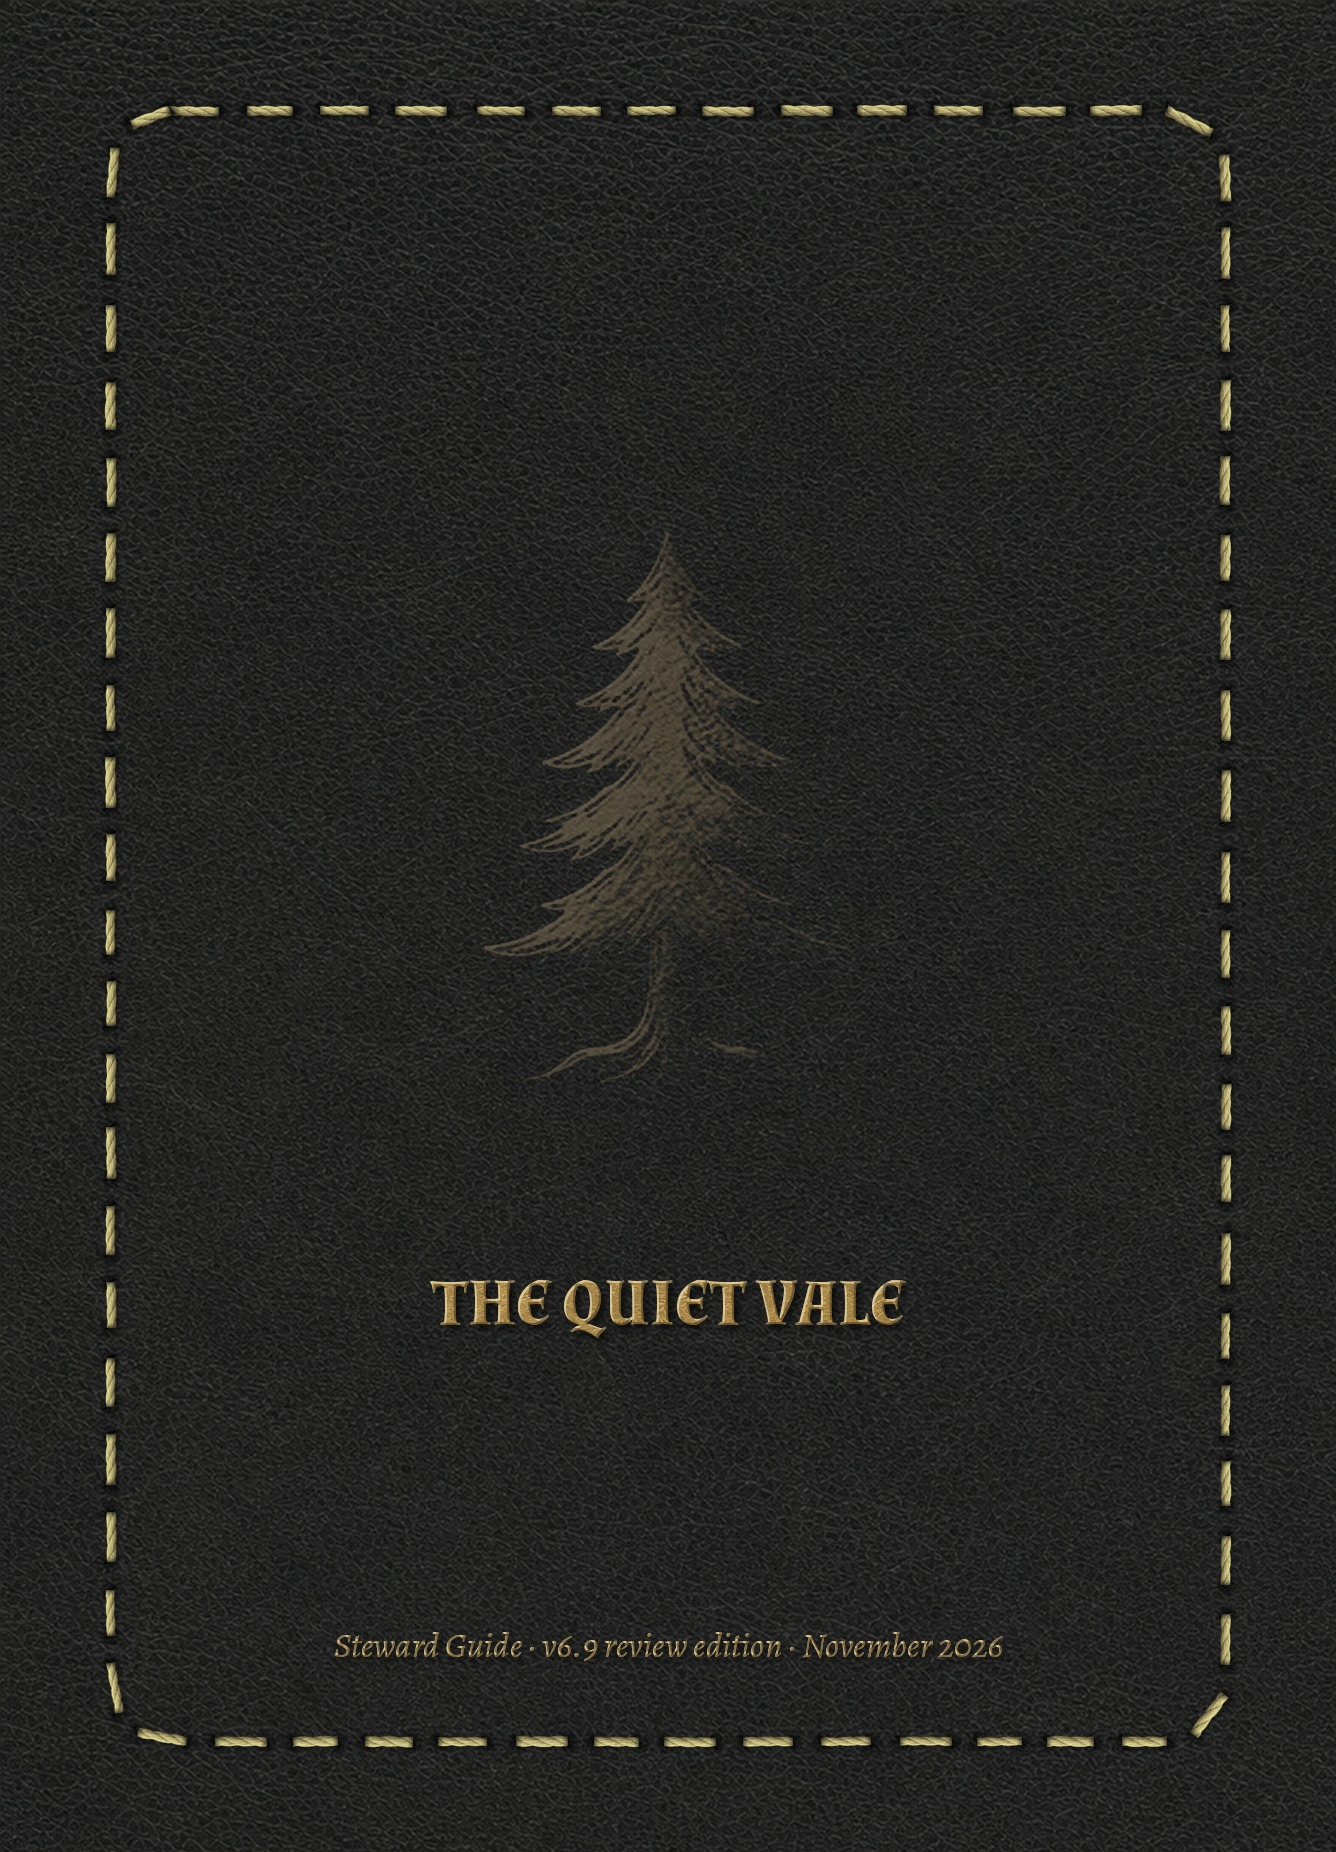
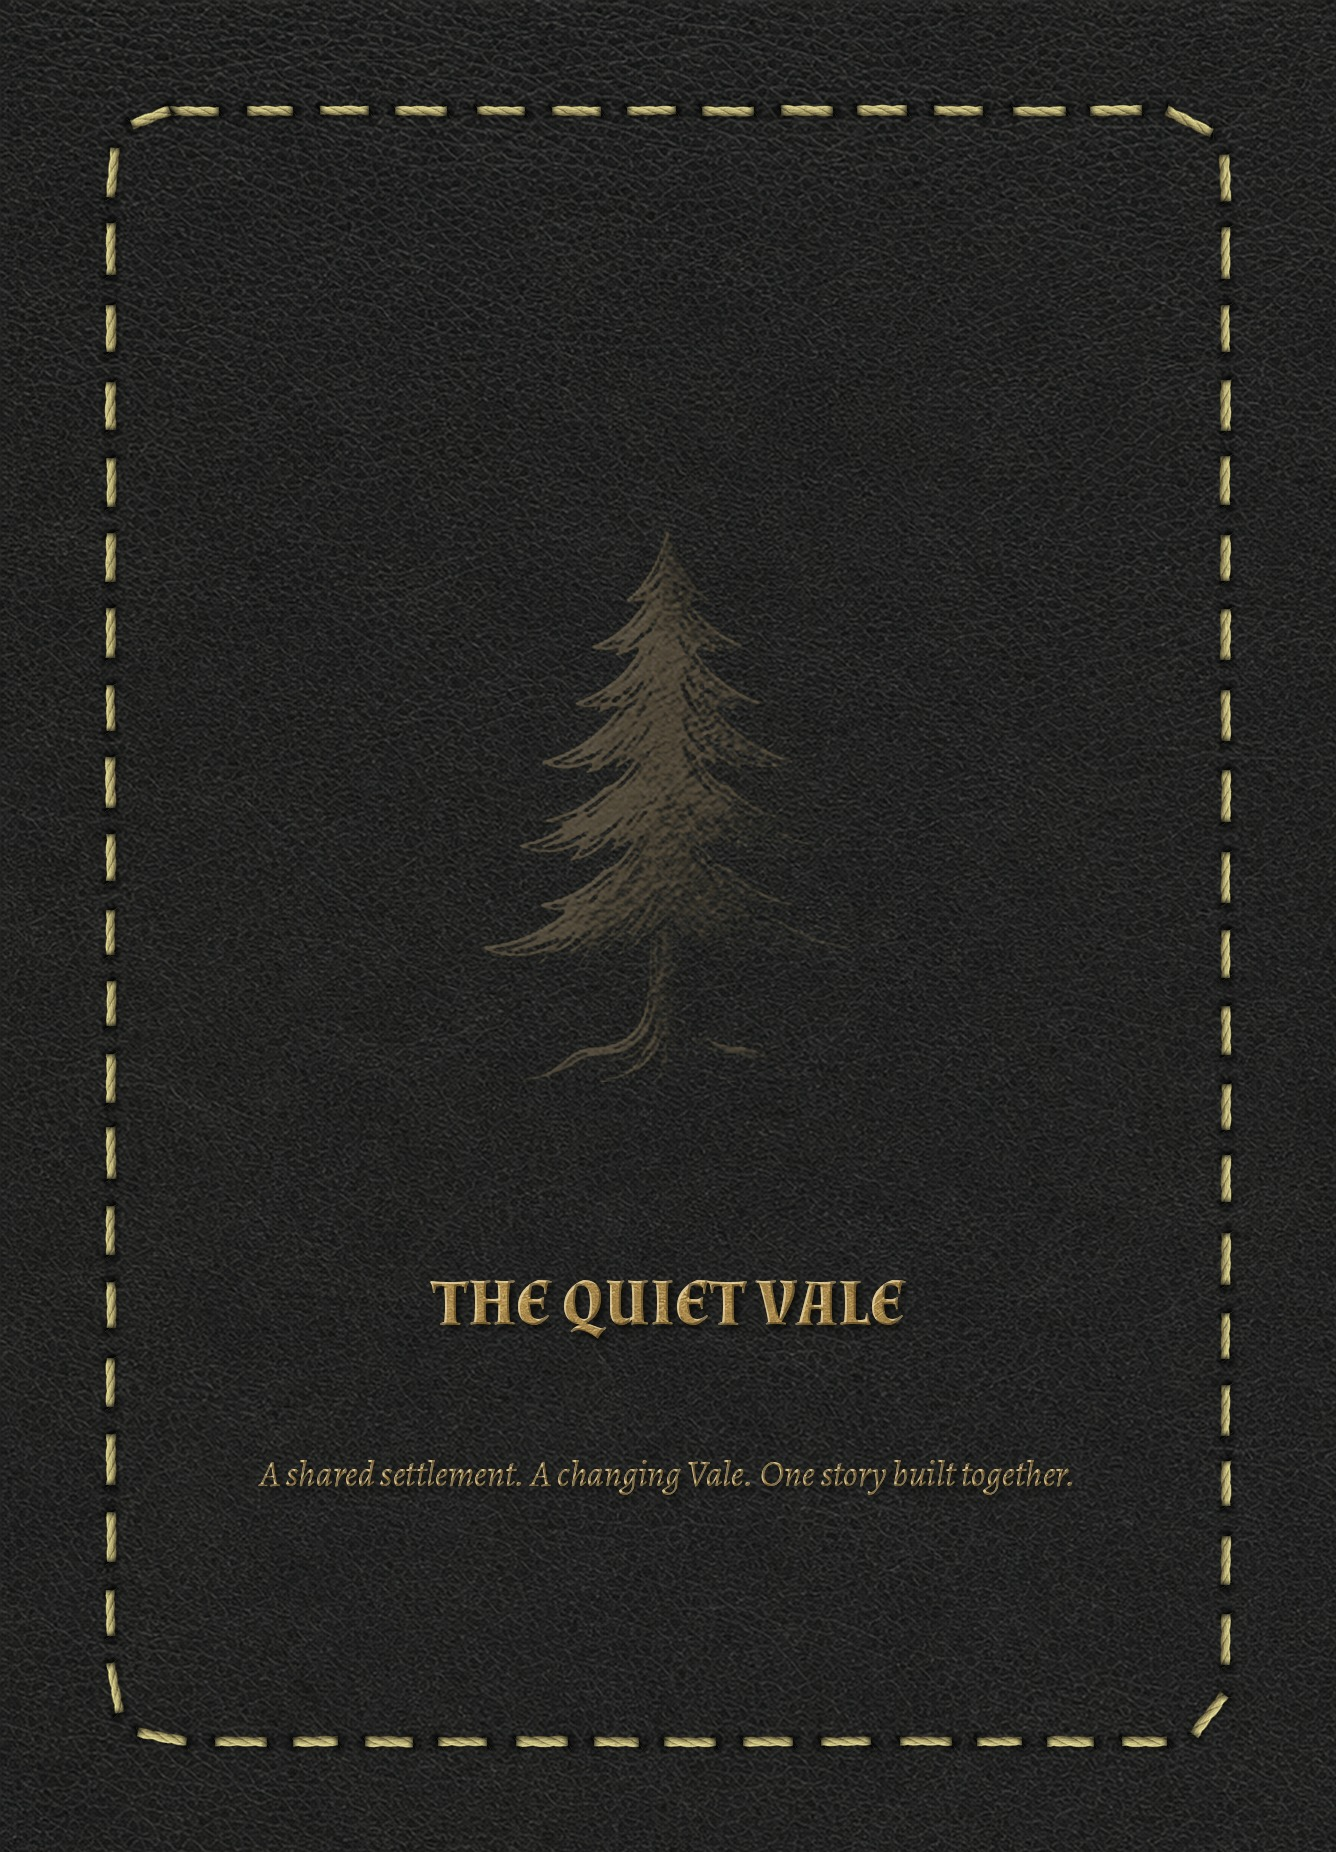
Hayman booklets: crop-marked CMYK print files; page numbers inside the 6 mm safe area; guides say meeple; player-facing back covers
Claude-Session: https://claude.ai/code/session_016DP5VWUVCmVpXZk9iKiBwc

diff --git a/design/rulebook-v6_9/rulebook.css b/design/rulebook-v6_9/rulebook.css
@@ -22,7 +22,7 @@ h2 { margin: 0; font: 700 21pt/1.05 Almendra, serif; color: #2b2620; }
 h3 { margin: 1.2mm 0 0; font: 700 12.6pt/1.1 Almendra, serif; color: #6f5418; }
 h4 { margin: 0; font: 700 11.4pt/1.1 Almendra, serif; }
 .body { flex: 1; min-height: 0; display: flex; flex-direction: column; gap: 2.6mm; }
-footer { position: absolute; bottom: -9mm; left: 0; right: 0; font: 400 9pt/1 Almendra, serif; color: #6b5d45; }
+footer { position: absolute; bottom: -6.4mm; left: 0; right: 0; font: 400 9pt/1 Almendra, serif; color: #6b5d45; }
 .page.odd footer { text-align: right; }
 .page.even footer { text-align: left; }
 p { margin: 0; }

diff --git a/design/print-hayman/make_booklet_pdf.py b/design/print-hayman/make_booklet_pdf.py
@@ -1,0 +1,83 @@
+#!/usr/bin/env python3
+"""Hayman Creative booklet print file from a review PDF.
+
+Hayman's booklet rules: one multi-page PDF, single pages (not spreads), the
+first page the front cover and the last the back cover; 3 mm bleed; crop marks
+offset by the bleed; text at least 6 mm inside the trim; 300 dpi or more; CMYK
+for accurate colour.
+
+Each page is rasterised at 600 dpi, converted to CMYK (FOGRA39, relative
+colorimetric) and placed on a sheet with crop marks in registration colour,
+starting 3.175 mm outside the trim. TrimBox and BleedBox are set.
+
+    python3 design/print-hayman/make_booklet_pdf.py <review.pdf> <out.pdf> <trim-w-mm> <trim-h-mm> <workdir> [title]
+"""
+import glob
+import os
+import subprocess
+import sys
+
+sys.path.insert(0, os.path.join(os.path.dirname(os.path.abspath(__file__)), "../steward-guides"))
+import pikepdf  # noqa: E402
+from PIL import Image  # noqa: E402
+from pdfkit import to_cmyk, jpeg_bytes, tac, MM  # noqa: E402
+
+src, out, tw, th, work = sys.argv[1], sys.argv[2], float(sys.argv[3]), float(sys.argv[4]), sys.argv[5]
+title = sys.argv[6] if len(sys.argv) > 6 else os.path.basename(out)
+os.makedirs(work, exist_ok=True)
+BLEED = 3.175            # the review PDFs carry 3.175 mm (1/8 in) bleed: more than Hayman's 3 mm
+SLUG = 8.0               # room outside the bleed for the crop marks
+MARK = 5.0               # crop mark length
+W, H = tw + 2 * (BLEED + SLUG), th + 2 * (BLEED + SLUG)
+
+pdf = pikepdf.new()
+pdf.docinfo["/Title"] = title
+pdf.docinfo["/Creator"] = "The Quiet Vale"
+reg = pdf.make_indirect(pikepdf.Array([pikepdf.Name.Separation, pikepdf.Name("/All"), pikepdf.Name.DeviceCMYK,
+                                       pikepdf.Dictionary(FunctionType=2, Domain=[0, 1], C0=[0, 0, 0, 0], C1=[1, 1, 1, 1], N=1)]))
+
+
+def marks():
+    x0, y0 = (SLUG + BLEED) * MM, (SLUG + BLEED) * MM          # trim corner, bottom left
+    x1, y1 = x0 + tw * MM, y0 + th * MM
+    off, ln = BLEED * MM, MARK * MM
+    segs = []
+    for x in (x0, x1):
+        for y, d in ((y0, -1), (y1, 1)):
+            segs.append(((x, y + d * off), (x, y + d * (off + ln))))          # vertical mark
+    for y in (y0, y1):
+        for x, d in ((x0, -1), (x1, 1)):
+            segs.append(((x + d * off, y), (x + d * (off + ln), y)))          # horizontal mark
+    ops = ["q /CS0 CS 1 SCN 0.25 w"] + [f"{a[0]:.3f} {a[1]:.3f} m {b[0]:.3f} {b[1]:.3f} l S" for a, b in segs] + ["Q"]
+    return "\n".join(ops)
+
+
+worst, n = 0.0, 0
+for i in range(1, 1000):
+    stem = f"{work}/p"
+    subprocess.run(["pdftoppm", "-r", "600", "-png", "-f", str(i), "-l", str(i), src, stem], capture_output=True)
+    files = sorted(glob.glob(f"{stem}-*.png"))
+    if not files:
+        break
+    im = Image.open(files[0]).convert("RGB")
+    cm = to_cmyk(im)
+    worst = max(worst, tac(cm)[0])
+    s = pikepdf.Stream(pdf, jpeg_bytes(cm, 86))
+    s.Type, s.Subtype = pikepdf.Name.XObject, pikepdf.Name.Image
+    s.Width, s.Height, s.BitsPerComponent = im.width, im.height, 8
+    s.ColorSpace, s.Filter = pikepdf.Name.DeviceCMYK, pikepdf.Name.DCTDecode
+    s.Decode = pikepdf.Array([1, 0, 1, 0, 1, 0, 1, 0])
+    img = pdf.make_indirect(s)
+    bw, bh = (tw + 2 * BLEED) * MM, (th + 2 * BLEED) * MM
+    content = f"q {bw:.4f} 0 0 {bh:.4f} {SLUG * MM:.4f} {SLUG * MM:.4f} cm /Im0 Do Q\n" + marks()
+    res = pikepdf.Dictionary(XObject=pikepdf.Dictionary({"/Im0": img}), ColorSpace=pikepdf.Dictionary({"/CS0": reg}))
+    pg = pikepdf.Dictionary(Type=pikepdf.Name.Page, MediaBox=[0, 0, W * MM, H * MM], Resources=res,
+                            Contents=pdf.make_indirect(pikepdf.Stream(pdf, content.encode())))
+    pg.BleedBox = [SLUG * MM, SLUG * MM, (W - SLUG) * MM, (H - SLUG) * MM]
+    pg.TrimBox = [(SLUG + BLEED) * MM, (SLUG + BLEED) * MM, (W - SLUG - BLEED) * MM, (H - SLUG - BLEED) * MM]
+    pdf.pages.append(pikepdf.Page(pg))
+    n += 1
+    for f in files:
+        os.remove(f)
+pdf.save(out, compress_streams=True)
+print(os.path.basename(out), n, "pages; total ink (99.99th percentile)", round(worst))

diff --git a/design/steward-guides/make_assets.py b/design/steward-guides/make_assets.py
@@ -71,7 +71,7 @@ def back(seed: int) -> Image.Image:
     frame_stitch(b, 6.0, seed + 1)
     b.tree(W_MM / 2, 64, 46, opacity=0.62)
     b.label("THE QUIET VALE", W_MM / 2, 106, 5.4, seed + 2)
-    b.label("Steward Guide · v6.9 review edition · November 2026", W_MM / 2, 134, 2.9, seed + 3, font=FONTS / "alegreya-latin-italic.woff2")
+    b.label("A shared settlement. A changing Vale. One story built together.", W_MM / 2, 120, 3.0, seed + 3, font=FONTS / "alegreya-latin-italic.woff2")
     return b.finish()
 
 
